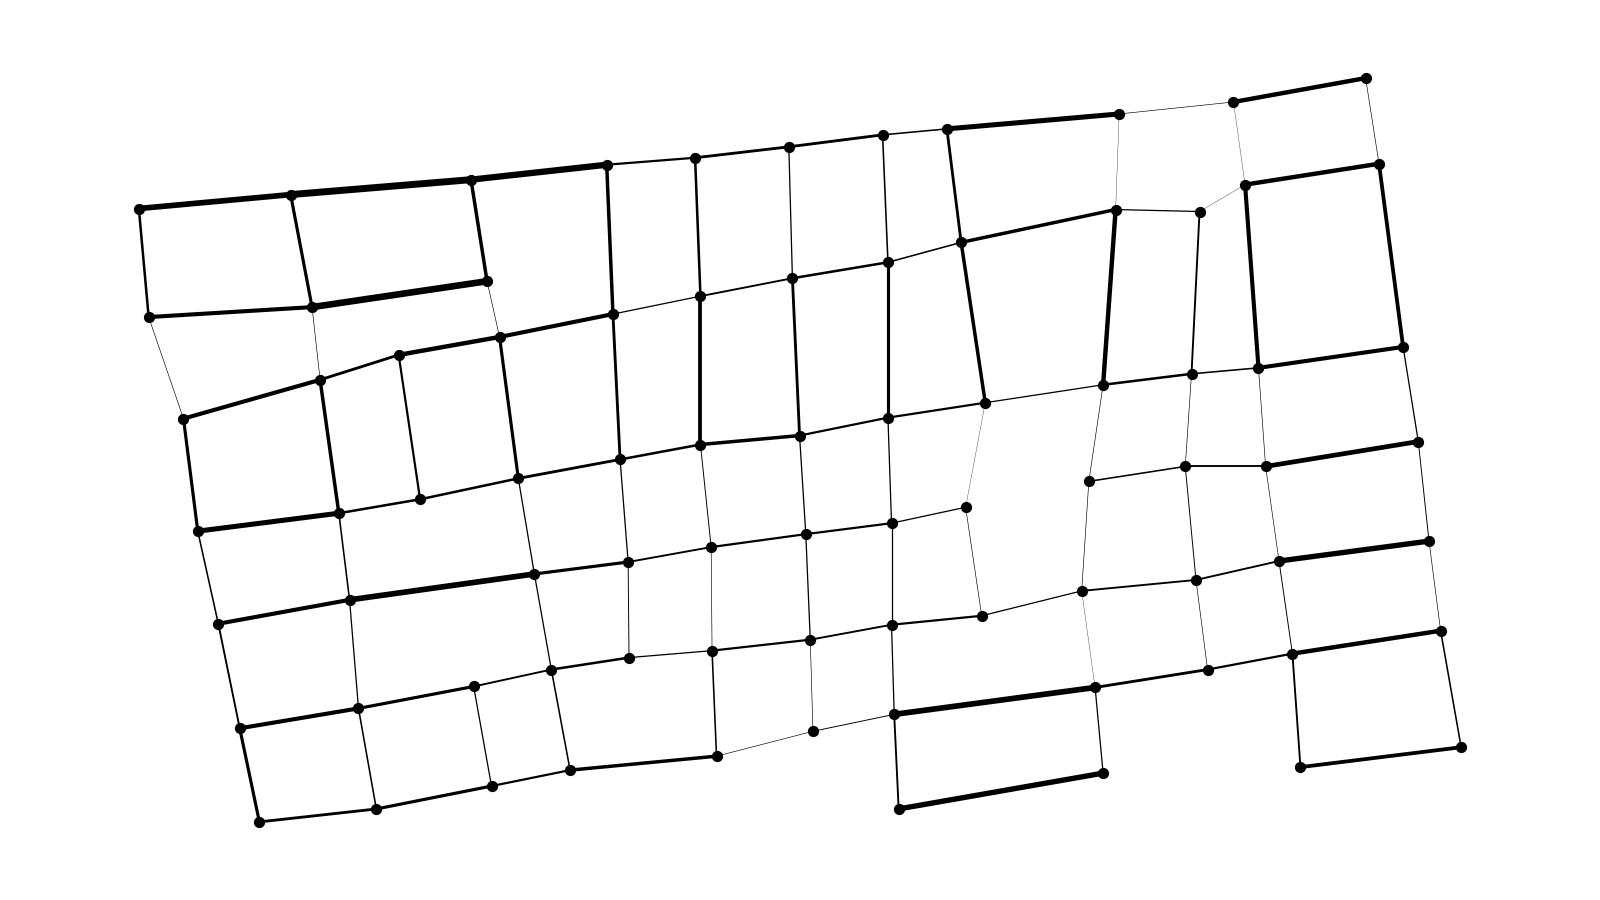
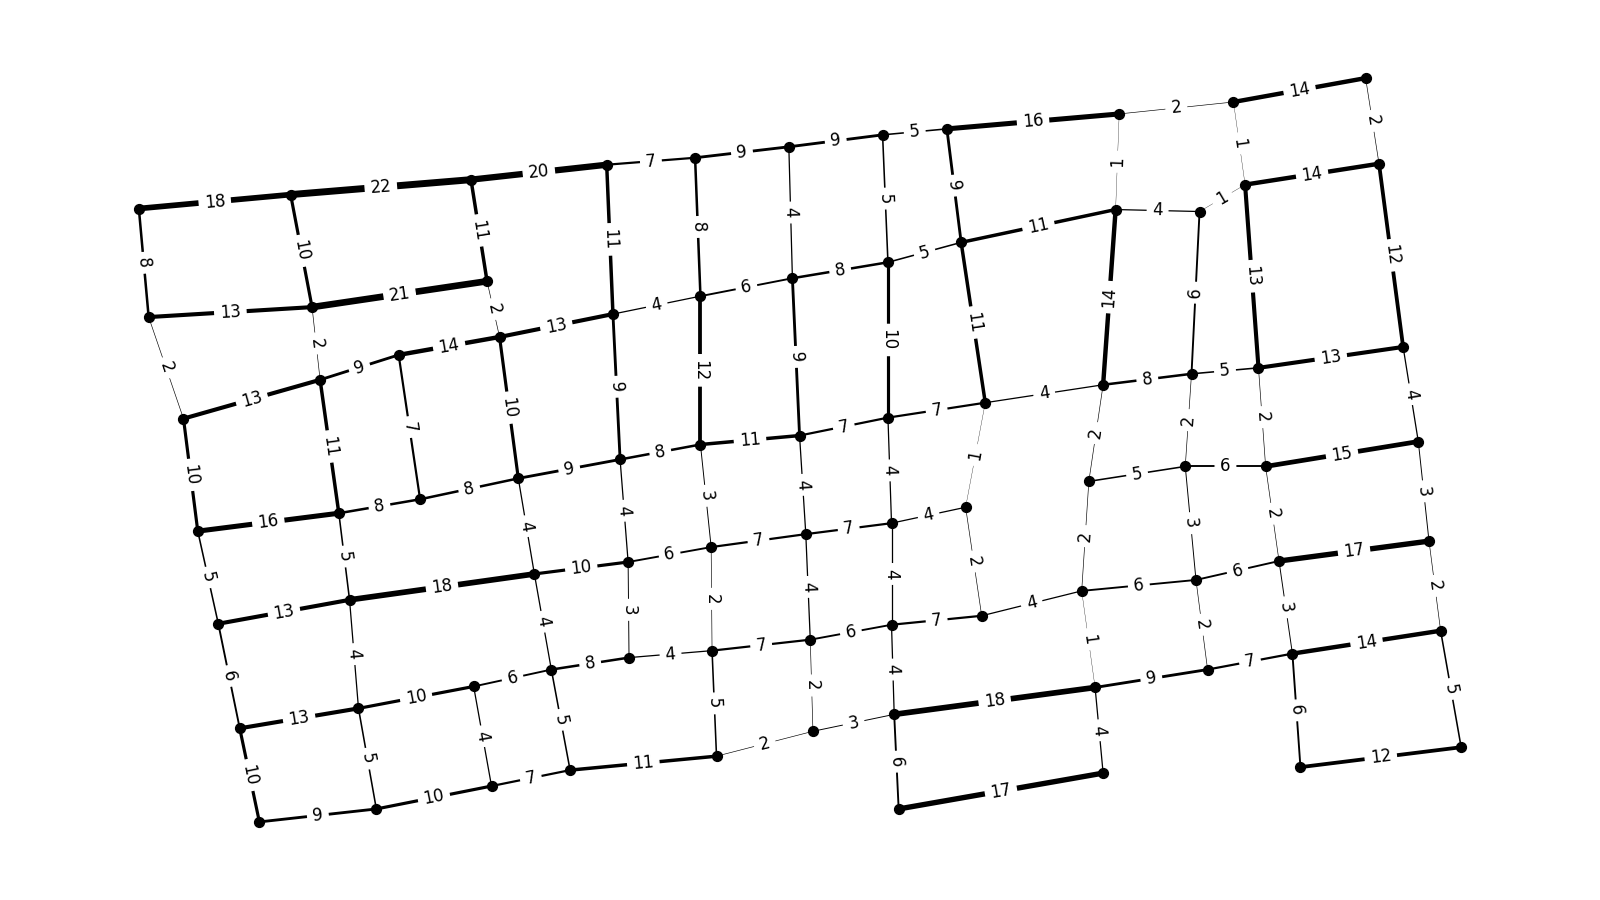
feat: :sparkles: change plotting methods

diff --git a/src/methods/plot_matching_kgraph_over_original_graph.py b/src/methods/plot_matching_kgraph_over_original_graph.py
@@ -1,0 +1,32 @@
+import matplotlib.pyplot as plt
+from networkx import draw, Graph, draw_networkx_edge_labels, draw_networkx_labels
+
+
+def plot_matching_kgraph_over_original_graph(matching_kgraph, graph):
+    node_positions = {node[0]: (node[1]['x'], -node[1]['y'])
+                      for node in graph.nodes(data=True)}
+
+    plt.figure(figsize=(16, 9))
+
+    draw(graph, pos=node_positions, node_size=20,
+         alpha=0.3, node_color='black')
+
+    draw_networkx_edge_labels(graph, alpha=0.3, pos=node_positions, font_size=12,
+                              edge_labels={(u, v): d['weight'] for u, v, d in graph.edges(data=True)})
+
+    draw(Graph(matching_kgraph), pos=node_positions, node_size=20,
+         alpha=1, node_color='black', edge_color='red', arrows=True, connectionstyle='arc3, rad=0.3')
+
+    plt.savefig('min_matching_kgraph_over_original_graph.png')
+    plt.clf()
+
+    draw(graph, pos=node_positions, node_size=20,
+         alpha=0.3, node_color='black')
+
+    draw(Graph(matching_kgraph), pos=node_positions, node_size=20,
+         alpha=1, node_color='black', edge_color='red', arrows=True, connectionstyle='arc3, rad=0.3')
+
+    draw_networkx_labels(graph, pos=node_positions, font_size=12, alpha=1, verticalalignment='bottom', horizontalalignment='left',
+                         labels={node[0]: node[0] for node in graph.nodes(data=True)})
+
+    plt.savefig('min_matching_kgraph_over_original_graph_w_nodes.png')

diff --git a/src/methods/plot_em_graph.py b/src/methods/plot_em_graph.py
@@ -1,5 +1,5 @@
 import matplotlib.pyplot as plt
-from networkx import draw
+from networkx import draw, draw_networkx_edge_labels
 
 
 def plot_em_graph(graph):
@@ -16,5 +16,8 @@ def plot_em_graph(graph):
 
     draw(graph, pos=node_positions, width=weights, edge_color='black',
          node_size=50, node_color='black')
+
+    draw_networkx_edge_labels(graph, pos=node_positions, font_size=12,
+                              edge_labels={(u, v): d['weight'] for u, v, d in graph.edges(data=True)})
 
     plt.savefig('graph.png')

diff --git a/src/methods/plot_kgraph.py b/src/methods/plot_kgraph.py
@@ -9,7 +9,7 @@ def plot_kgraph(kgraph, graph):
     plt.figure(figsize=(16, 9))
     pos_random = random_layout(kgraph)
     draw_networkx_nodes(kgraph, node_positions,
-                        node_size=20, node_color="red")
+                        node_size=20, node_color="black")
     draw_networkx_edges(
         kgraph, node_positions, alpha=0.1)
     plt.axis('off')

diff --git a/src/methods/plot_matching_kgraph.py b/src/methods/plot_matching_kgraph.py
@@ -12,6 +12,6 @@ def plot_matching_kgraph(matching_kgraph, kgraph, graph):
 
     kgraph_min_edges = Graph(matching_kgraph)
     draw(kgraph_min_edges, pos=node_positions,
-         node_size=20, edge_color='blue', node_color='red')
+         node_size=20, edge_color='red', node_color='black')
 
     plt.savefig('min_matching_kgraph.png')
